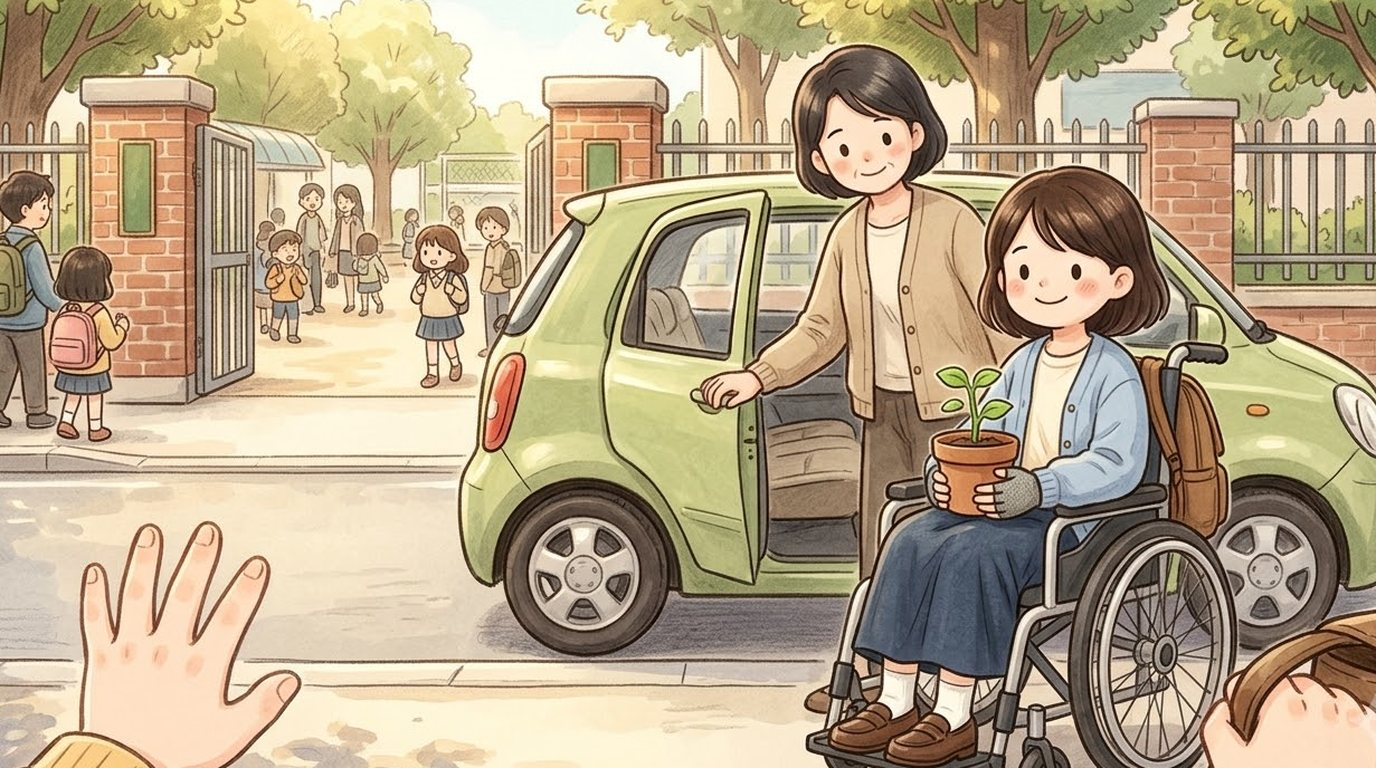
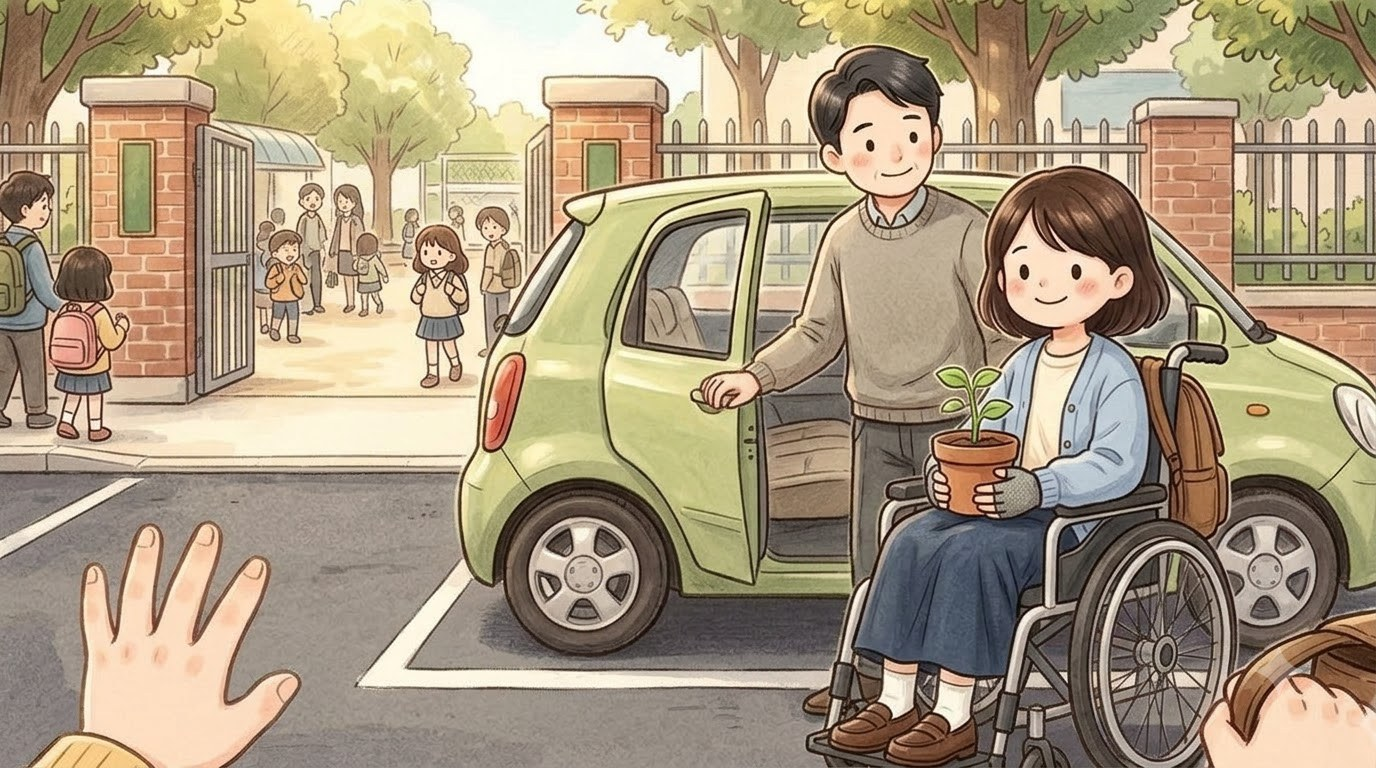
Hyeeun 11a redrawn: Hyeeun's dad (not mom) waits with the car door open in the parking lot by the school gate (picture shown again)

diff --git a/index.html b/index.html
@@ -119,14 +119,14 @@ body,button{word-break:keep-all;overflow-wrap:break-word}
 <div id="fader"></div>
 <script>
 // same address, newest version: if the page this phone has kept is older than the one online, fetch the new one and reopen
-const BUILD='1104082405';
+const BUILD='1104082800';
 try{fetch(location.pathname,{cache:'no-store'}).then(r=>r.text()).then(t=>{const m=t.match(/const BUILD='(\d+)'/);if(m&&m[1]!==BUILD&&sessionStorage.getItem('upd')!==m[1]){sessionStorage.setItem('upd',m[1]);fetch(location.pathname,{cache:'reload'}).then(()=>location.reload())}}).catch(()=>{})}catch(e){}
 </script>
-<script src="i18n.js?v=1104082405"></script>
-<script src="i18n_prologue_v2.js?v=1104082405"></script>
-<script src="day2/i18n_engine.js?v=1104082405"></script>
-<script src="day2/data.js?v=1104082405"></script>
-<script src="day3/data.js?v=1104082405"></script>
+<script src="i18n.js?v=1104082800"></script>
+<script src="i18n_prologue_v2.js?v=1104082800"></script>
+<script src="day2/i18n_engine.js?v=1104082800"></script>
+<script src="day2/data.js?v=1104082800"></script>
+<script src="day3/data.js?v=1104082800"></script>
 <script>
 // ---------- data ----------
 const MW=1672,MH=941,KID=180;
@@ -537,28 +537,28 @@ function pickHero(){const m=document.getElementById('modal'),c=document.getEleme
  c.innerHTML=`<h2>${tr('괴짜교실 반장되기')}</h2><p>${tr('말 한마디 못 하는 전학생,<br>반장 선거에 나가다.')}</p><p style="margin-top:14px">${tr('누구로 할까요?')}</p>${(()=>{const s=loadSave();return s&&s.day>=2&&s.mode===UI+'-'+LANG?`<p><button class="big" id="cont">${tr(s.day+'일차부터 이어 하기')}</button></p>`:''})()}<div class="pick heroes"><button data-h="hero_f"><img src="faces/hero_f_smile.jpg" alt="여자 주인공"></button><button data-h="hero_m"><img src="faces/hero_m_smile.jpg" alt="남자 주인공"></button></div>`;
  m.classList.add('on');{const cb=document.getElementById('cont');if(cb)cb.onclick=()=>{const s=loadSave();HERO=s.hero;Object.assign(HEART,s.heart||{});(s.found||[]).forEach(k=>FOUND.add(k));HEART_D1={...HEART};chime();(typeof contGame==='function'?contGame(s):startDay(Math.min(s.day,Object.keys(window.D3||{}).length?3:2)))}}c.querySelectorAll('.pick button').forEach(b=>b.onclick=()=>{HERO=b.dataset.h;m.classList.remove('on');chime();bgm('day');load('home_am');say([['nar','','이사 온 다음 날 아침. 아직 풀지 못한 상자들이 쌓여 있다.'],['think','sad','(오늘부터 새 학교야. 여기 말도 아직 서툰데…….)'],['think','smile','({m}한테 인사하고 학교 가야지.)']],morning)})}
 </script>
-<script src="day2/engine.js?v=1104082405"></script>
-<script src="day2/ep_minho.js?v=1104082405"></script>
-<script src="day2/meet.js?v=1104082405"></script>
-<script src="day2/ep_sua.js?v=1104082405"></script>
-<script src="day2/ep_hangyeol.js?v=1104082405"></script>
-<script src="day2/ep_siwoo.js?v=1104082405"></script>
-<script src="day2/ep_haram.js?v=1104082405"></script>
-<script src="day2/ep_jiho.js?v=1104082405"></script>
-<script src="day2/ep_hyeeun.js?v=1104082405"></script>
-<script src="day2/ep_haneul.js?v=1104082405"></script>
-<script src="day2/ep_junho.js?v=1104082405"></script>
-<script src="day2/ep_yuna.js?v=1104082405"></script>
-<script src="day2/ep_yena.js?v=1104082405"></script>
-<script src="day2/ep_haeun.js?v=1104082405"></script>
-<script src="day2/ep_youngmin.js?v=1104082405"></script>
-<script src="day2/ep_seah.js?v=1104082405"></script>
-<script src="day2/ep_jihoon.js?v=1104082405"></script>
-<script src="words_ja_ru.js?v=1104082405"></script>
-<script src="day2/mybag.js?v=1104082405"></script>
-<script src="day2/spots.js?v=1104082405"></script>
-<script src="day2/textfit.js?v=1104082405"></script>
-<script src="day2/tester.js?v=1104082405"></script>
+<script src="day2/engine.js?v=1104082800"></script>
+<script src="day2/ep_minho.js?v=1104082800"></script>
+<script src="day2/meet.js?v=1104082800"></script>
+<script src="day2/ep_sua.js?v=1104082800"></script>
+<script src="day2/ep_hangyeol.js?v=1104082800"></script>
+<script src="day2/ep_siwoo.js?v=1104082800"></script>
+<script src="day2/ep_haram.js?v=1104082800"></script>
+<script src="day2/ep_jiho.js?v=1104082800"></script>
+<script src="day2/ep_hyeeun.js?v=1104082800"></script>
+<script src="day2/ep_haneul.js?v=1104082800"></script>
+<script src="day2/ep_junho.js?v=1104082800"></script>
+<script src="day2/ep_yuna.js?v=1104082800"></script>
+<script src="day2/ep_yena.js?v=1104082800"></script>
+<script src="day2/ep_haeun.js?v=1104082800"></script>
+<script src="day2/ep_youngmin.js?v=1104082800"></script>
+<script src="day2/ep_seah.js?v=1104082800"></script>
+<script src="day2/ep_jihoon.js?v=1104082800"></script>
+<script src="words_ja_ru.js?v=1104082800"></script>
+<script src="day2/mybag.js?v=1104082800"></script>
+<script src="day2/spots.js?v=1104082800"></script>
+<script src="day2/textfit.js?v=1104082800"></script>
+<script src="day2/tester.js?v=1104082800"></script>
 <script>
 // the goal shows big for a few seconds, then folds into a small pill (tap it to open it again)
 {const g=document.getElementById('goal');let t=null;const big=()=>{g.classList.remove('mini');clearTimeout(t);t=setTimeout(()=>g.classList.add('mini'),4000)};

diff --git a/day2/ep_hyeeun.js b/day2/ep_hyeeun.js
@@ -1318,7 +1318,7 @@ window.EP_WORDS_HE={
  const put=(a,txt,pic)=>{for(let j=0;j<a.length;j++){const x=a[j];if(Array.isArray(x)&&typeof x[2]==='string'&&x[2].startsWith(txt)){a.splice(j,0,{pic});return true}if(x&&x.lines&&put(x.lines,txt,pic))return true}return false};
  for(const[i,w,txt,pic]of AN)if(!put(EP.hyeeun[i][w],txt,pic))console.warn('hyeeun pic: no line',i,w,txt)}
 // pictures not drawn yet are skipped: take a name out of TODO_PICS once scenes/hyeeun_<name>.jpg is in place (prompts: art/scenes/hyeeun/pics2.json)
-{const TODO_PICS=new Set(['hyeeun_11a']);
+{const TODO_PICS=new Set([]);
  const drop=a=>{if(!Array.isArray(a))return;for(let j=a.length-1;j>=0;j--){const x=a[j];if(x&&!Array.isArray(x)&&typeof x==='object'){if(typeof x.pic==='string'&&TODO_PICS.has(x.pic)){a.splice(j,1);continue}drop(x.lines)}}};
  for(const e of EP.hyeeun){drop(e.pre);drop(e.post);for(const o of e.choices){drop(o.r);if(o.r&&o.r.length===1&&o.r[0]&&o.r[0].pic===null)o.r=[];else if(o.r&&o.r.length&&o.r[0]&&o.r[0].pic===null)o.r.shift()}}}
 // meeting 1: while my bag lies on the floor by her wheel (laid at 745,866 until the bag find clears it), I walk without it (walk/<hero>_nobag.png, when drawn)
